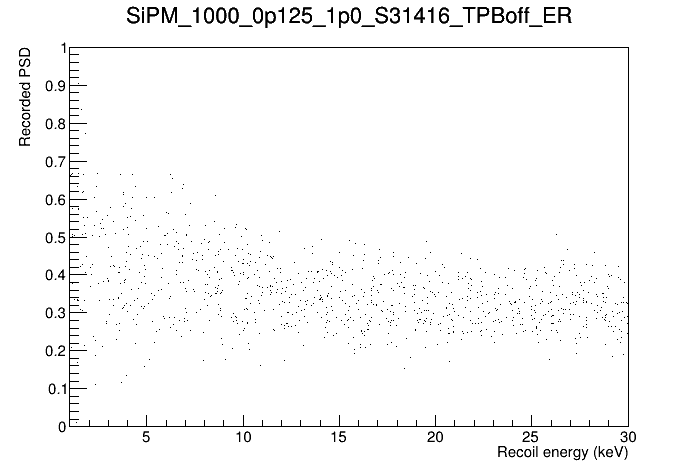
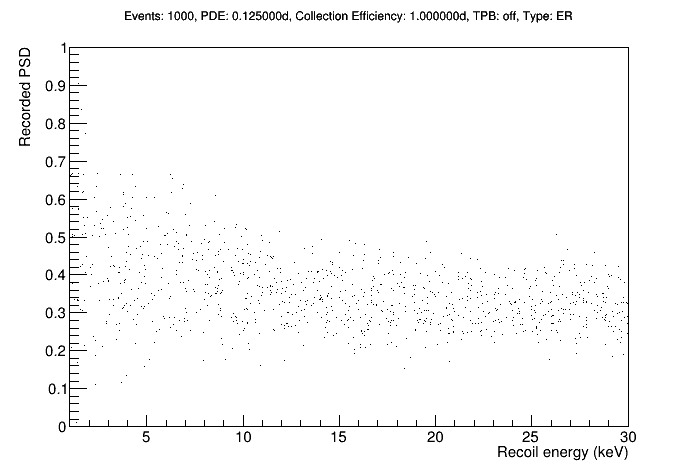
changed graph titles to make inputs more clear

Changed region(s): [[0.1805, 0.0, 0.8424, 0.0591]]

diff --git a/ReadOutput.c b/ReadOutput.c
@@ -2,14 +2,18 @@
 
 void ReadOutput(TString filename){
 
-  //define the constants structure
+  //Step 1: define the constants structure (first defined in RunMC.c)
   struct constant_list {
     long evts;
     double eMin;
     double eMax;
+    double SiPM_pde;
+    double light_cov;
+    int tpbOnOff;
+    char recoil;
   };
 
-  //read in the data file
+  //Step 2: read in the data file
   TFile *fileIN = TFile::Open(filename);
   TTree *SiPMmc = (TTree*)fileIN->Get("SiPMmc");
 
@@ -23,12 +27,23 @@ void ReadOutput(TString filename){
   SiPMmc->SetBranchAddress("erecoil",&erecoil);
   SiPMmc->SetBranchAddress("constants", &constants);
 
-  SiPMmc->GetEntry(0);
-  Long_t evt_max = constants.evts;
-  SiPMmc->GetEntry(1);
-  Double_t energy_min = constants.eMin;
-  SiPMmc->GetEntry(2);
-  Double_t energy_max = constants.eMax;
+  //load the constants
+  SiPMmc->GetEntry(0); Long_t evt_max = constants.evts;
+  SiPMmc->GetEntry(1); Double_t energy_min = constants.eMin;
+  SiPMmc->GetEntry(2); Double_t energy_max = constants.eMax;
+  SiPMmc->GetEntry(3); Double_t pde = constants.SiPM_pde;
+  SiPMmc->GetEntry(4); Double_t coll_eff = constants.light_cov;
+  SiPMmc->GetEntry(5); Int_t tpb = constants.tpbOnOff;
+  SiPMmc->GetEntry(6); TString evt_type = constants.recoil;
+
+  //Step 3: format
+  //change constants into strings
+  TString num = Form("%ld",evt_max);
+  TString name_pde = Form("%fd",pde);
+  TString name_coll_eff = Form("%fd",coll_eff);
+  string OnOff;
+  if (tpb==0){OnOff="off";}
+  else if (tpb==1){OnOff="on";}
 
   //format file name to use later
   filename.ReplaceAll("Data/","");
@@ -38,7 +53,8 @@ void ReadOutput(TString filename){
   gStyle->SetOptStat(0);
 
 
-  // Graph1: true PSD vs recorded PSD
+  //Step 4: Graphing
+  //Graph1: true PSD vs recorded PSD
   //making a graph of 100 bins from 0 to 1 on the x axis and 100 bins from 0 to 1 on the y axis
   TH2D *hPSD = new TH2D("hPSD","",100,0,1,100,0,1);
 
@@ -58,11 +74,9 @@ void ReadOutput(TString filename){
      hPSDenergy->Fill(erecoil,rpsd);
   }
 
-
-  //graph the data
   //Graph1
   TCanvas *c1 = new TCanvas("c1","c1");
-  hPSD->SetTitle(filename);
+  hPSD->SetTitle("Events: "+num+", PDE: "+name_pde+", Collection Efficiency: "+name_coll_eff+", TPB: "+OnOff+", Type: "+evt_type+"R");
   hPSD->GetXaxis()->SetTitle("Recorded PSD");
   hPSD->GetYaxis()->SetTitle("True PSD");
   hPSD->Draw();
@@ -75,7 +89,7 @@ void ReadOutput(TString filename){
 
   //Graph2
   TCanvas *c2 = new TCanvas("c2","c2");
-  hPhotons->SetTitle(filename);
+  hPhotons->SetTitle("Events: "+num+", PDE: "+name_pde+", Collection Efficiency: "+name_coll_eff+", TPB: "+OnOff+", Type: "+evt_type+"R");
   hPhotons->GetXaxis()->SetTitle("Recoil energy (keV)");
   hPhotons->GetYaxis()->SetTitle("Number of collected photons");
   hPhotons->Draw();
@@ -84,7 +98,7 @@ void ReadOutput(TString filename){
 
   //Graph3
   TCanvas *c3 = new TCanvas("c3","c3");
-  hPSDenergy->SetTitle(filename);
+  hPSDenergy->SetTitle("Events: "+num+", PDE: "+name_pde+", Collection Efficiency: "+name_coll_eff+", TPB: "+OnOff+", Type: "+evt_type+"R");
   hPSDenergy->GetXaxis()->SetTitle("Recoil energy (keV)");
   hPSDenergy->GetYaxis()->SetTitle("Recorded PSD");
   hPSDenergy->Draw();

diff --git a/RunMC.c b/RunMC.c
@@ -150,16 +150,28 @@ void RunMC(int IsTPBon, int seed, TString evt_type)
   SiPMmc->Branch("n_scint_p",&n_scint_p);
   SiPMmc->Branch("n_coll_p",&n_coll_p);
   //gather my constants in a structure & save them in a branch
+  char recoil_type;
+  if (evt_type=="NR"){recoil_type='N';}
+  else if (evt_type=="ER"){recoil_type='E';}
+  //defined again in ReadOutput.c
   struct constant_list {
     long evts;
     double eMin;
     double eMax;
+    double SiPM_pde;
+    double light_cov;
+    int tpbOnOff;
+    char recoil;
   };
   constant_list this_run;
   this_run.evts = evt_max;
   this_run.eMin = energy_min;
   this_run.eMax = energy_max;
-  SiPMmc->Branch("constants", &this_run, "evt_max/L:energy_min/D:energy_max/D");
+  this_run.SiPM_pde = pde;
+  this_run.light_cov = coll_eff;
+  this_run.tpbOnOff = IsTPBon;
+  this_run.recoil = recoil_type;
+  SiPMmc->Branch("constants", &this_run, "evt_max/L:energy_min/D:energy_max/D:pde/D:coll_eff/D:tpb/I:evt_type:C");
   //Pietro wrote this and commented it out, I'm not sure why
   //SiPMmc->Branch("pht_st",&pht_st);
   //SiPMmc->Branch("pht_wl",&pht_wl);
